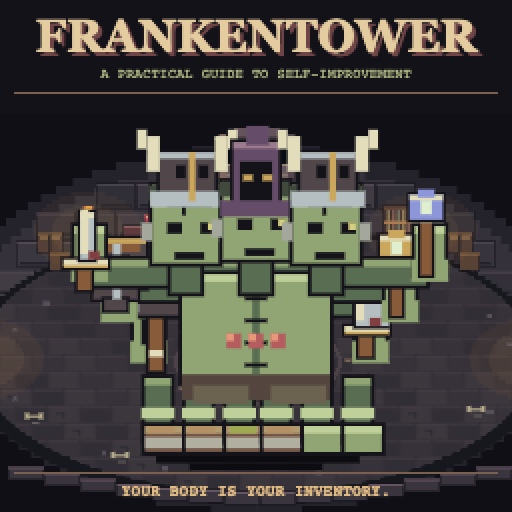
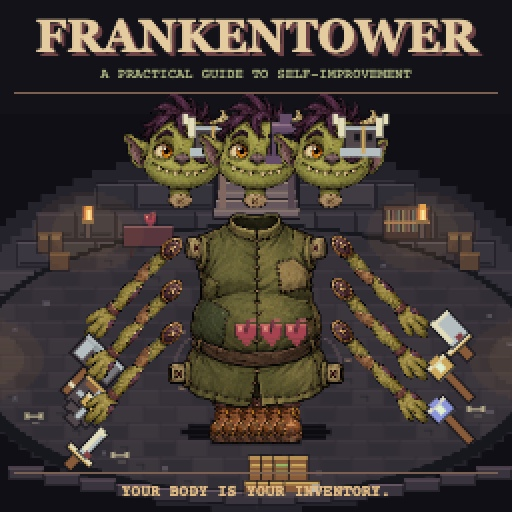
Prototype illustrated front-facing creature parts

diff --git a/src/styles.css b/src/styles.css
@@ -1,5 +1,5 @@
 :root{font-family:'Courier New',monospace;color:#dfd2b6;background:#100f14;font-size:13px;font-synthesis:none;--muted:#a59790;--cream:#efdfb9;--mint:#b6c891;--gold:#dfb978;--red:#d88078;--line:#54434a;--safe-top:0px;--safe-right:0px;--safe-bottom:0px;--safe-left:0px;color-scheme:dark}
-*{box-sizing:border-box}body{margin:0}button,a,input{-webkit-tap-highlight-color:transparent}button{font:inherit;color:inherit;cursor:pointer;border:2px solid #66504c;background:#332a2d;padding:9px 13px;box-shadow:inset 0 2px #8d6d5033,0 2px #08090c;text-align:center}button:hover:not(:disabled){color:#fff0c9;border-color:#b38d64;background:#49382f}button:active:not(:disabled){transform:translateY(1px)}button:disabled{cursor:default;opacity:.38}button:focus-visible,a:focus-visible,input:focus-visible,summary:focus-visible{outline:2px solid var(--gold);outline-offset:4px}a{color:inherit;text-decoration:none}p{line-height:1.65;margin:0 0 14px}h1,h2,h3{font-family:Georgia,'Times New Roman',serif;color:var(--cream);font-weight:600;margin:0}h1{font-size:31px}h2{font-size:26px}h3{font-size:18px}small{font-size:10px}canvas{image-rendering:pixelated}.pixel-icon{display:inline-block;vertical-align:middle;flex-shrink:0}.creature{width:190px;height:auto;object-fit:contain}.eyebrow{font:10px/1.5 'Courier New',monospace;letter-spacing:1.7px;color:var(--muted)}.mint{color:var(--mint)}.blood{color:var(--red)}.gold-text{color:var(--gold)}.quiet{background:transparent;border:0;box-shadow:none;padding:5px;color:#b6a393}.quiet:hover:not(:disabled){background:transparent;color:var(--cream)}.icon-button{width:31px;height:31px;padding:0;font:20px Georgia,serif;background:#211e24;border-color:#4d3f46;box-shadow:none}.primary{display:flex;align-items:center;justify-content:center;gap:12px;background:#674b35;border-color:#ba905d;color:#f6e1b3;font-weight:bold;padding:13px 21px;box-shadow:inset 0 2px #d4ad6d55,0 3px #0a0a0d;white-space:nowrap}.primary:hover:not(:disabled){background:#896342;border-color:#e9c285}.primary.full{width:100%}.subdued{background:#34372e;border-color:#777859}.overload{color:#e9a875}.full{width:100%}
+*{box-sizing:border-box}body{margin:0}button,a,input{-webkit-tap-highlight-color:transparent}button{font:inherit;color:inherit;cursor:pointer;border:2px solid #66504c;background:#332a2d;padding:9px 13px;box-shadow:inset 0 2px #8d6d5033,0 2px #08090c;text-align:center}button:hover:not(:disabled){color:#fff0c9;border-color:#b38d64;background:#49382f}button:active:not(:disabled){transform:translateY(1px)}button:disabled{cursor:default;opacity:.38}button:focus-visible,a:focus-visible,input:focus-visible,summary:focus-visible{outline:2px solid var(--gold);outline-offset:4px}a{color:inherit;text-decoration:none}p{line-height:1.65;margin:0 0 14px}h1,h2,h3{font-family:Georgia,'Times New Roman',serif;color:var(--cream);font-weight:600;margin:0}h1{font-size:31px}h2{font-size:26px}h3{font-size:18px}small{font-size:10px}canvas{image-rendering:pixelated}.pixel-icon{display:inline-block;vertical-align:middle;flex-shrink:0}.creature{width:190px;height:auto;object-fit:contain;image-rendering:auto}.arena-scene canvas,.dressing-room{image-rendering:auto}.eyebrow{font:10px/1.5 'Courier New',monospace;letter-spacing:1.7px;color:var(--muted)}.mint{color:var(--mint)}.blood{color:var(--red)}.gold-text{color:var(--gold)}.quiet{background:transparent;border:0;box-shadow:none;padding:5px;color:#b6a393}.quiet:hover:not(:disabled){background:transparent;color:var(--cream)}.icon-button{width:31px;height:31px;padding:0;font:20px Georgia,serif;background:#211e24;border-color:#4d3f46;box-shadow:none}.primary{display:flex;align-items:center;justify-content:center;gap:12px;background:#674b35;border-color:#ba905d;color:#f6e1b3;font-weight:bold;padding:13px 21px;box-shadow:inset 0 2px #d4ad6d55,0 3px #0a0a0d;white-space:nowrap}.primary:hover:not(:disabled){background:#896342;border-color:#e9c285}.primary.full{width:100%}.subdued{background:#34372e;border-color:#777859}.overload{color:#e9a875}.full{width:100%}
 .app-shell{max-width:1240px;margin:auto;padding:calc(14px + var(--safe-top)) calc(24px + var(--safe-right)) calc(14px + var(--safe-bottom)) calc(24px + var(--safe-left));min-height:100dvh}.main-header{min-height:55px;display:flex;align-items:center;gap:24px;padding-bottom:14px;border-bottom:2px solid #45343d;position:relative;z-index:2}.wordmark{font:900 25px/1 Georgia,serif;letter-spacing:1px;color:#d5bca3;text-shadow:2px 2px #633e43,3px 3px #06070c;white-space:nowrap}.wordmark span{color:#b6c18a}.journey{display:flex;align-items:center;gap:8px;font-size:12px;letter-spacing:1px;margin:auto}.journey>span{font-size:10px;color:#83716f}.header-tools{display:flex;align-items:center;gap:8px;position:relative;padding-bottom:5px}.gold{display:flex;align-items:center;gap:5px;font-weight:bold;font-size:17px;color:var(--gold);margin-right:10px}.save-status{position:absolute;right:0;bottom:-12px;font-size:8px;color:#877e79;white-space:nowrap;max-width:220px}.workshop-world{display:grid;grid-template-columns:1fr 1fr;gap:34px;padding-top:26px;align-items:start}.patient-heading{display:flex;justify-content:space-between;align-items:center;padding:0 8px 14px}.patient-heading .eyebrow{font-size:9px}.patient-heading h1{margin:3px 0}.patient-species{font-size:11px;color:#a0a17e}.anatomy-scene{position:relative;max-width:560px;margin:auto}.dressing-room{display:block;width:100%;height:auto}.slot-groups{position:absolute;inset:0;pointer-events:none}.slot-group{position:absolute;pointer-events:auto;text-align:center;max-width:118px}.slot-heading{font-size:9px;letter-spacing:1px;text-transform:uppercase;color:#dfceae;text-shadow:1px 2px #100e14;margin-bottom:6px;display:flex;gap:6px;justify-content:center}.slot-heading small{font-size:9px;color:#b7bd91}.slot-grid{display:flex;flex-wrap:wrap;gap:5px;justify-content:center}.equipment-slot{position:relative;width:44px;height:45px;padding:3px;background:#1f1b22;border:2px solid #51444c;box-shadow:0 2px #100d15}.equipment-slot.filled{background:#332d30;border-color:#887159}.equipment-slot>span{display:none}.equipment-slot>small{position:absolute;right:0;bottom:0;background:#1d1a20;font-size:9px;color:#dac089;padding:0 2px}.equipment-slot:not(.filled)>.pixel-icon{opacity:.3}.equipment-slot.inactive{border-color:#9c5354}.variant-dot{position:absolute;right:-3px;top:-3px;width:6px;height:6px;background:#a7b3bd}.socket-head{top:4%;left:50%;transform:translateX(-50%);max-width:200px}.socket-hand{left:3%;top:40%}.socket-chest{right:3%;top:35%}.socket-heart{right:3%;top:62%}.socket-foot{bottom:4%;left:50%;transform:translateX(-50%);max-width:280px}.patient-vitals{display:flex;justify-content:center;gap:19px;flex-wrap:wrap;padding:15px 4px 5px;font-size:10px;color:#aaa08e}.patient-vitals>span{display:flex;align-items:center;gap:5px}.patient-vitals b{font-size:12px;color:#e1d4b5}.patient-vitals .overload b{color:#e1a271}.socket-hint{text-align:center;font-size:10px;color:#918078;margin:9px 0 0}
 .supply-tabs{display:flex;gap:24px;align-items:center;margin-bottom:22px;border-bottom:2px solid #48383d}.supply-tabs button{border:0;box-shadow:none;background:transparent;padding:0 0 13px;color:#9e8982;font-size:12px;position:relative}.supply-tabs button.active{color:#e5c18c;border-bottom:2px solid #bf955d;margin-bottom:-2px}.supply-tabs i{display:inline-block;width:5px;height:5px;background:#d6c075;margin-left:4px}.shop-title{display:flex;align-items:center;justify-content:space-between;margin-bottom:2px}.shop-title h2{margin-top:4px;font-size:27px}.shop-title .eyebrow{font-size:9px}.shop-tier{color:#d6b171;letter-spacing:3px}.shop-grid{display:grid;grid-template-columns:repeat(3,minmax(0,1fr));column-gap:0;row-gap:20px;margin-top:16px}.shop-card{min-width:0;position:relative;text-align:center;padding:0 8px 15px;border-bottom:10px solid #574033;box-shadow:0 4px #211b21,inset 0 -2px #a47d4e;background:transparent}.shop-card:after{content:'';position:absolute;left:0;right:0;bottom:-10px;height:2px;background:#a18055}.card-info{display:block;width:100%;padding:0 0 6px;border:0;box-shadow:none;background:none;text-align:center}.card-info:hover:not(:disabled){background:none;border:0}.item-art{height:95px;display:flex;align-items:center;justify-content:center;position:relative}.item-art:after{content:'';position:absolute;bottom:7px;left:25%;right:25%;height:5px;background:#080a0e}.item-art .pixel-icon{position:relative;z-index:1;transition:transform .15s}.card-info:hover .pixel-icon{transform:translateY(-4px)}.card-info h3{font-size:15px;line-height:1.25;min-height:38px;padding:0 3px;color:#e1c9a2}.card-info p{font-size:10px;line-height:1.45;color:#ab9a8e;min-height:43px;margin:6px 0 3px;display:-webkit-box;-webkit-line-clamp:3;-webkit-box-orient:vertical;overflow:hidden}.buy-button{font-size:13px;padding:6px 14px;min-width:69px;background:#382d26;border-color:#785f43;color:#e2bc7f}.buy-button span{font-size:10px;color:#dcb45c}.rarity-3 .item-art{filter:drop-shadow(0 0 9px #8282ac22)}.rarity-4 .item-art,.rarity-5 .item-art{filter:drop-shadow(0 0 9px #d0a05433)}.sold-card{border-bottom:10px solid #574033;box-shadow:0 4px #211b21;display:flex;flex-direction:column;align-items:center;justify-content:center;color:#70605a;min-height:219px}.sold-card>span{font:42px Georgia}.sold-card small{letter-spacing:2px}.shop-actions{display:flex;gap:12px;justify-content:space-between;margin:24px 0}.shop-actions button{font-size:11px;background:transparent;border-color:#59443f;padding:9px 11px}.shop-actions span{color:var(--gold);margin-left:8px}.tray{border-top:2px solid #46363d;padding-top:15px;margin-top:20px}.tray-heading{display:flex;align-items:center;justify-content:space-between}.tray-heading .quiet{font-size:10px}.tray>p{margin:15px 0;color:#81736f;font-size:11px}.tray-items{display:flex;flex-wrap:wrap;gap:8px;margin-top:14px}.item-tile{display:flex;gap:8px;align-items:center;position:relative;padding:8px;font-size:11px;max-width:155px;background:#282329}.item-tile>span{font-size:10px;text-align:left}.level{font-size:9px;color:var(--gold)}.merge-dot{position:absolute;right:0;top:0;color:#b8d48a}
 .procedure-content>.eyebrow{color:#97af9f}.procedure-content>h2{margin:5px 0 17px}.doctor-quote{margin:0 0 20px;font:italic 17px/1.65 Georgia,serif;color:#bbbfaa;border-left:3px solid #758975;padding-left:17px}.doctor-quote cite{display:block;font:10px 'Courier New',monospace;letter-spacing:1px;color:#849986;margin-top:8px}.procedure-intro{font-size:11px;color:#a4a798}.procedure-card{padding:17px 0;border-top:1px solid #465047}.procedure-card-heading{display:flex;align-items:center;gap:13px}.procedure-card h3{font-size:20px;color:#c9d1b5}.procedure-card>p{font-size:12px;margin:7px 0;color:#afb8a3}.procedure-card blockquote{font:italic 13px Georgia,serif;color:#8b9b8c;margin:0 0 11px}.procedure-card button{border-color:#718068;background:#303b32;font-size:11px}.procedure-card button span{margin-left:12px;color:#d0c68e}.procedure-reason{display:block;font-size:10px;color:#958c80;margin-top:8px}

diff --git a/src/art/pixel.ts b/src/art/pixel.ts
@@ -1,6 +1,10 @@
 import { count } from '../game/anatomy';
 import { ITEM_MAP } from '../game/content';
 import type { Build } from '../game/types';
+import torsoUrl from './assets/torso.webp';
+import headUrl from './assets/head.webp';
+import armUrl from './assets/arm.webp';
+import legUrl from './assets/leg.webp';
 
 export type Pen = CanvasRenderingContext2D;
 const ink = '#15131a';
@@ -50,8 +54,73 @@ export function pixelItem(c: Pen, name: string, x = 0, y = 0, size = 32, variant
   }
   c.restore();
 }
-export interface Pose { time?: number; walk?: number; moving?: boolean; facing?: number; windup?: number; windupItem?: string; activeItems?: string[]; attacking?: boolean; hurt?: boolean; dead?: number; enemy?: boolean }
+export interface Pose { time?: number; walk?: number; moving?: boolean; facing?: number; windup?: number; windupItem?: string; activeItems?: string[]; attacking?: boolean; swing?: number; hurt?: boolean; dead?: number; enemy?: boolean }
+const puppetImages = Object.fromEntries(Object.entries({ torso: torsoUrl, head: headUrl, arm: armUrl, leg: legUrl }).map(([name, src]) => {
+  const img = new Image(); img.src = src; return [name, img];
+})) as Record<'torso'|'head'|'arm'|'leg', HTMLImageElement>;
+export const puppetReady = Promise.all(Object.values(puppetImages).map(img => img.decode().catch(() => undefined)));
+export function puppetHeight(build:Build) {
+  const hands=count(build,'hand'),heads=count(build,'head'),feet=count(build,'foot'),growth=Math.max(0,build.parts.length-7);
+  const torsoH=65+Math.min(24,heads*3.5+hands*1.3+feet*1.25+growth*.55);
+  const headH=Math.min(53,42+heads*1.5), extraHeadRows=Math.max(0,Math.floor((heads-1)/3))*12;
+  return 49+torsoH*.5+19+headH*.5+extraHeadRows+20;
+}
+function puppetPart(c:Pen, img:HTMLImageElement, x:number, y:number, w:number, h:number) {
+  c.drawImage(img, x-w/2, y-h/2, w, h);
+}
+function puppetMonster(c:Pen, build:Build, x:number, y:number, scale:number, pose:Pose) {
+  if (!Object.values(puppetImages).every(img=>img.complete&&img.naturalWidth)) return false;
+  const hands=build.parts.filter(p=>p.slot==='hand'), heads=build.parts.filter(p=>p.slot==='head'), feet=build.parts.filter(p=>p.slot==='foot');
+  const hearts=count(build,'heart'), chest=build.parts.find(p=>p.slot==='chest'&&p.item);
+  c.save(); c.imageSmoothingEnabled=true; c.translate(Math.round(x),Math.round(y)); c.scale(scale,scale);
+  if(pose.dead!==undefined){const p=Math.min(1,pose.dead/.38);c.globalAlpha=.65;c.translate(0,4);c.scale(1,Math.max(.24,1-p));}
+  const bob=pose.moving?Math.sin((pose.walk??0)*.2)*2:Math.sin((pose.time??0)*2)*.6;
+  oval(c,0,0,24+Math.min(12,feet.length),5,'#0c0c11'); c.translate(pose.hurt?-2:0,-bob);
+  const growth=Math.max(0,build.parts.length-7);
+  const torsoW=56+Math.min(34,hands.length*2.5+feet.length*1.25+growth*.55);
+  const torsoH=65+Math.min(24,heads.length*3.5+hands.length*1.3+feet.length*1.25+growth*.55);
+  const torsoY=-49;
+  // Legs fan out below the torso. Each ankle and boot remains visible in the frontal pose.
+  feet.forEach((p,i)=>{
+    const f=(i-(feet.length-1)/2)/Math.max(1,feet.length-1);
+    const stride=pose.moving?Math.sin((pose.walk??0)*.22+i*Math.PI)*3:0;
+    const lx=f*Math.min(34,8+feet.length*3)+stride;
+    puppetPart(c,puppetImages.leg,lx,-16+stride,25,42);
+    if(p.item)pixelItem(c,ITEM_MAP[p.item.defId].icon,lx+5,8+stride,19,p.item.defId);
+  });
+  // Extra arms grow in rows down the torso, with all of them kept in view.
+  const drawArm=(i:number)=>{
+    const p=hands[i]; if(!p)return;
+    const side=i%2===0?-1:1, tier=Math.floor(i/2), rows=Math.max(1,Math.ceil(hands.length/2));
+    const ay=torsoY-torsoH*.31+Math.min(torsoH*.7,tier*Math.min(17,torsoH*.58/Math.max(1,rows-1)));
+    const ax=side*(torsoW*.37);
+    const neutral=-side*.76;
+    const active=!!p.item&&(pose.activeItems?.includes(p.item.uid)||pose.attacking&&!pose.activeItems);
+    let angle=neutral;
+    if(p.item&&pose.windupItem===p.item.uid)angle+=-side*Math.min(1,pose.windup??0)*.9;
+    if(active){const t=Math.max(0,Math.min(1,pose.swing??.5));const eased=t*t*(3-2*t);angle=neutral+(-((pose.facing??1)*1.85)-neutral)*eased;}
+    c.save(); c.translate(ax,ay); c.rotate(angle);
+    puppetPart(c,puppetImages.arm,0,26,24,58);
+    if(p.item){const def=ITEM_MAP[p.item.defId];const size=def.id==='enormous'?34:def.icon==='club'?27:23;c.save();c.translate(-4,49);pixelItem(c,def.icon,0,0,size,p.item.defId);c.restore();}
+    c.restore();
+  };
+  puppetPart(c,puppetImages.torso,0,torsoY,torsoW,torsoH);
+  if(chest?.item)pixelItem(c,ITEM_MAP[chest.item.defId].icon,0,torsoY-5,27,chest.item.defId);
+  for(let i=0;i<Math.min(hearts,5);i++)pixelItem(c,'heart',-10+(i%3)*10,torsoY+3+Math.floor(i/3)*10,12);
+  if(!heads.length){pixelItem(c,'head',-5,-torsoH-32,17);}
+  heads.forEach((p,i)=>{
+    const spread=(i-(heads.length-1)/2)*Math.min(31,60/Math.max(1,heads.length-1));
+    const hw=Math.min(53,42+heads.length*1.5), hh=hw;
+    const hy=torsoY-torsoH*.5-19-(Math.floor(i/3)*12);
+    puppetPart(c,puppetImages.head,spread,hy,hw,hh);
+    if(p.item)pixelItem(c,ITEM_MAP[p.item.defId].icon,spread,hy-hh*.34,23,p.item.defId);
+  });
+  hands.forEach((_,i)=>drawArm(i));
+  if(pose.hurt){c.globalAlpha=.12;rect(c,-torsoW/2,-torsoH-70,torsoW,torsoH+90,'#fff0c4');}
+  c.restore(); return true;
+}
 export function monster(c: Pen, build: Build, x: number, y: number, scale=1, pose: Pose={}) {
+  if(puppetMonster(c,build,x,y,scale,pose))return;
   const hands=build.parts.filter(p=>p.slot==='hand'),heads=build.parts.filter(p=>p.slot==='head'),feet=build.parts.filter(p=>p.slot==='foot');
   const undead=/Skeleton|Bone|Grave|Lich/i.test(build.name), rat=/Rat/i.test(build.name), ogre=/Ogre|Brute/i.test(build.name), ghost=/Wraith/i.test(build.name);
   const flesh=pose.enemy?(undead?'#c3b994':ghost?'#9e9fbb':ogre?'#b28469':'#a79772'):'#91a574', lit=pose.enemy?(undead?'#ece0b9':'#c1ad84'):'#bfd09a', shade=pose.enemy?'#72634f':'#596d52';

diff --git a/src/ui/Arena.tsx b/src/ui/Arena.tsx
@@ -1,6 +1,6 @@
 import { useEffect, useRef } from 'react';
 import { ARENA, type Combat, type LogEntry } from '../game/combat';
-import { monster, oval, rect, pixelItem, room, roomLights, type Pen } from '../art/pixel';
+import { monster, oval, rect, pixelItem, puppetHeight, room, roomLights, type Pen } from '../art/pixel';
 import type { Build } from '../game/types';
 
 function text(c:Pen,value:string,x:number,y:number,colour:string,size=10){c.font=`bold ${size}px monospace`;c.textAlign='center';c.fillStyle='#121018';c.fillText(value,Math.round(x)+1,Math.round(y)+1);c.fillStyle=colour;c.fillText(value,Math.round(x),Math.round(y));}
@@ -57,10 +57,10 @@ export function Arena({combat,floor,paused,onInspect}:{combat:Combat;floor:numbe
         const dead=a.diedAt===undefined?undefined:time-a.diedAt;
         if(a.side==='player'&&a.hp>0){oval(c!,a.x,a.y+1,a.radius+7,7,'#748867');oval(c!,a.x,a.y,a.radius+5,5,'#222a25');}
         const hurt=!reduced&&time-a.lastHit<.12;
-        monster(c!,a.build,a.x,a.y,scale,{time:reduced?0:time,walk:a.walked,moving:!reduced&&!stopped&&a.hp>0&&Math.hypot(a.vx,a.vy)>5,facing:a.facing,enemy:a.side==='enemy',windup:a.windup,windupItem:a.windupItem,activeItems:a.items.filter(n=>time-n.lastActivated<.17).map(n=>n.item.uid),attacking:time-a.lastAction<.12,hurt,dead});
+        monster(c!,a.build,a.x,a.y,scale,{time:reduced?0:time,walk:a.walked,moving:!reduced&&!stopped&&a.hp>0&&Math.hypot(a.vx,a.vy)>5,facing:a.facing,enemy:a.side==='enemy',windup:a.windup,windupItem:a.windupItem,activeItems:a.items.filter(n=>time-n.lastActivated<.17).map(n=>n.item.uid),attacking:time-a.lastAction<.12,swing:Math.max(0,Math.min(1,1-(time-a.lastAction)/.17)),hurt,dead});
         if(a.hp<=0)continue;
         if(a.shield>0){for(let i=0;i<20;i++){const t=i*Math.PI/10;rect(c!,a.x+Math.cos(t)*29,a.y-36+Math.sin(t)*36,3,3,'#8dadba');}}
-        const barY=a.y-(a.side==='player'?94:82),bw=a.side==='player'?52:37;
+        const barY=a.y-(a.side==='player'?132:112),bw=a.side==='player'?52:37;
         rect(c!,a.x-bw/2-1,barY-1,bw+2,5,'#14141a');rect(c!,a.x-bw/2,barY,bw*a.hp/a.stats.maxHp,3,a.side==='player'?'#9ea86f':'#b66963');
         if(a.poison>0)text(c!,`● ${Math.ceil(a.poison)}`,a.x-15,barY-5,'#acba69',8);
         if(a.bleed>0)text(c!,`♦ ${Math.ceil(a.bleed)}`,a.x+18,barY-5,'#dc8675',8);
@@ -81,7 +81,7 @@ export function DressingRoom({build,floor,surgery=false}:{build:Build;floor:numb
     for(let i=0;i<6;i++){rect(b,0,263+i*14,320,13,i%2?'#3d3339':'#342d34');for(let j=0;j<7;j++)rect(b,j*55+(i%2)*25,263+i*14,1,14,'#1b1921');}
     oval(b,160,275,99,27,'#1c1b21');oval(b,160,270,92,23,surgery?'#52635b':'#4b3b42');oval(b,160,266,92,22,surgery?'#839080':'#6b5055');oval(b,160,264,83,17,surgery?'#657d70':'#4e3e48');
     if(surgery){rect(b,249,256,45,8,'#a1aba0');rect(b,253,264,4,33,'#555f60');pixelItem(b,'surgery',258,234,22);rect(b,21,177,28,59,'#36343f');for(let i=0;i<3;i++){rect(b,25+i*7,183,4,18,'#90a786');rect(b,25+i*7,204,4,2,'#c8d0b0');}}
-    const reduced=matchMedia('(prefers-reduced-motion: reduce)').matches;let frame=0;function draw(now:number){c!.clearRect(0,0,320,340);c!.drawImage(bg,0,0);torchAt(now);monster(c!,latest.current,160,257,1.7,{time:reduced?0:now/1000});frame=requestAnimationFrame(draw);}function torchAt(now:number){const t=reduced?0:now/1000;importTorch(c!,30,96,t);importTorch(c!,287,96,t);}
+    const reduced=matchMedia('(prefers-reduced-motion: reduce)').matches;let frame=0;function draw(now:number){c!.clearRect(0,0,320,340);c!.drawImage(bg,0,0);torchAt(now);monster(c!,latest.current,160,257,Math.min(1.7,250/puppetHeight(latest.current)),{time:reduced?0:now/1000});frame=requestAnimationFrame(draw);}function torchAt(now:number){const t=reduced?0:now/1000;importTorch(c!,30,96,t);importTorch(c!,287,96,t);}
     frame=requestAnimationFrame(draw);return()=>cancelAnimationFrame(frame);
   },[floor,surgery]);
   return <canvas ref={canvas} className="dressing-room" width={320} height={340} role="img" aria-label={`${build.name} in ${surgery?'the surgery':'the equipment room'}`}/>;

diff --git a/src/ui/Creature.tsx b/src/ui/Creature.tsx
@@ -1,9 +1,9 @@
 import { useEffect, useRef } from 'react';
 import { count } from '../game/anatomy';
 import type { Build } from '../game/types';
-import { monster } from '../art/pixel';
+import { monster, puppetHeight, puppetReady } from '../art/pixel';
 export function Creature({ build, enemy = false, active = false, hurt = false, compact = false }: { build: Build; enemy?: boolean; active?: boolean; hurt?: boolean; compact?: boolean }) {
   const ref=useRef<HTMLCanvasElement>(null);
-  useEffect(()=>{const c=ref.current?.getContext('2d');if(!c)return;c.clearRect(0,0,128,120);monster(c,build,64,111,1,{enemy,attacking:active,hurt});});
-  return <canvas ref={ref} width={128} height={120} role="img" aria-label={`${build.name}: ${count(build,'head')} heads, ${count(build,'hand')} hands, ${count(build,'foot')} feet, ${count(build,'heart')} hearts`} className={`creature ${compact?'compact':''}`}/>;
+  useEffect(()=>{let mounted=true;const draw=()=>{if(!mounted)return;const c=ref.current?.getContext('2d');if(!c)return;c.clearRect(0,0,144,160);monster(c,build,72,146,Math.min(1,150/puppetHeight(build)),{enemy,attacking:active,hurt});};draw();puppetReady.then(draw);return()=>{mounted=false;};});
+  return <canvas ref={ref} width={144} height={160} role="img" aria-label={`${build.name}: ${count(build,'head')} heads, ${count(build,'hand')} hands, ${count(build,'foot')} feet, ${count(build,'heart')} hearts`} className={`creature ${compact?'compact':''}`}/>;
 }

diff --git a/README.md b/README.md
@@ -36,7 +36,7 @@ Offline mode uses a separate local save. The browser-storage adapter is removed 
 
 - Deterministic spatial combat shared by players, authored enemies, and saved guardians: positions, nearest-target acquisition, pursuit, orbiting, soft body separation, and a circular arena boundary.
 - Melee strikes require reach; ready weapons wait while approaching. Ranged and magical attacks have longer reach, and ranged-only fighters retreat from nearby threats. Leg count determines physical movement speed.
-- Pixel-art dungeon arena, modular monsters, visible equipment, gait animation, heavy-weapon anticipation, recoil, death poses, attack arcs/projectiles, damage numbers, Shield breaks, critical feedback, and brief hit-stop on large impacts. Reduced-motion preferences suppress shake and cosmetic gait motion.
+- Pixel-art dungeon arena with an illustrated paper-puppet creature prototype: a growing stitched torso, front-facing heads, visible limbs, and arms that swing across the body. Creatures also show equipped gear, gait, recoil, death poses, attack arcs/projectiles, damage numbers, Shield breaks, critical feedback, and brief hit-stop on large impacts. Reduced-motion preferences suppress shake and cosmetic gait motion.
 - 51 equipment definitions across five rarities, with timers, tags, generic selectors/effects, duplicate upgrades, and Level 3 signatures.
 - Mutable Hand, Head, Foot, Chest, and Heart sockets; anatomy-derived HP, Mana, circulation capacity and load.
 - 14 surgical procedures, including arm/head/foot grafts, amputation, arm-to-head conversion, clockwork arms, Mana-fed necrotic hearts, serpent heads, and headless neural control.
@@ -48,7 +48,7 @@ Offline mode uses a separate local save. The browser-storage adapter is removed 
 - Creature-centred equipment room with anatomical sockets, a timber supply counter, a clinical surgery view, a compact combat HUD, responsive mobile camera, sound, safe areas, host pause/resume handling, and cloud saves.
 - Custom RUN analytics for purchases, upgrades, rerolls, procedures, equipment choices, fights, retirement, and run outcomes.
 
-The design's later addendum explicitly defers community publishing, Fame, public reactions, and a shared boss repository. Those are not simulated or presented as live features here. The newer visual direction supersedes the original movement deferral. Ordinary floors reuse a circular room; props are decorative and do not block movement or line of sight. Art is an intentionally chunky procedural pixel prototype, not final production art.
+The design's later addendum explicitly defers community publishing, Fame, public reactions, and a shared boss repository. Those are not simulated or presented as live features here. The newer visual direction supersedes the original movement deferral. Ordinary floors reuse a circular room; props are decorative and do not block movement or line of sight. The room and equipment icons retain their procedural pixel style; the creature cutouts are an early illustrated art experiment, not final production art.
 
 ## Architecture
 
@@ -60,9 +60,9 @@ The design's later addendum explicitly defers community publishing, Fame, public
 | `src/game/run.ts` | Seeded shops, economy, grafts, encounter budgets, checkpoints, and retirement |
 | `src/platform.ts` | RUN storage, analytics, safe areas, and lifecycle events |
 | `src/App.tsx` | Build/combat screens, inspection, records, and player controls |
-| `src/ui/Creature.tsx` | Pixel creature portraits |
+| `src/ui/Creature.tsx` | Responsive modular creature portraits |
 | `src/ui/Arena.tsx` | Arena rendering, effects, mobile framing, and dressing room |
-| `src/art/pixel.ts` | Shared pixel-art room, props, anatomy, and equipment drawing |
+| `src/art/pixel.ts` | Canvas room, props, anatomy, equipment, and paper-puppet assembly |
 
 `public/thumbnail.jpg` is the required 512×512 RUN thumbnail. `node scripts/render-thumbnail.mjs` renders it from the game's own pixel dungeon and creature. RUN text generation is explicitly disabled in `rundot/textGen.config.json`; this game makes no inference calls.
 

diff --git a/docs/release-notes.md b/docs/release-notes.md
@@ -1,11 +1,13 @@
-# FRANKENTOWER — private pixel-arena playtest
+# FRANKENTOWER — private creature-art playtest
 
-Watch your monster fight in a dark pixel-art dungeon. Creatures pursue targets, circle each other, close to melee range, and recoil from attacks. Legs now determine physical movement speed; heavy weapons wind up before striking.
+Watch your stitched creature fight in a dark pixel-art dungeon. The first illustrated paper-puppet parts add a front-facing head, a growing cloth torso, articulated arms, and booted legs. Arms rest out to the sides and sweep across the body when equipped attacks trigger; large builds scale to fit the dressing room and inspection views.
+
+Creatures pursue targets, circle each other, close to melee range, and recoil from attacks. Legs determine physical movement speed; heavy weapons wind up before striking.
 
 The arena takes centre stage during combat. Damage, critical hits, Poison, Bleed, Shield breaks, projectiles, and deaths appear in the room. Equipment and full statistics are available through inspection.
 
 Between floors, equip anatomical sockets around your creature, buy loose equipment from the supply shelves, and visit Dr. Sutcher for reconstruction. The campaign, 51 items, 14 procedures, personal Legacy guardians, and cloud saves remain available.
 
-This is a first visual pass with procedural placeholder pixel art. Room props are decorative. Further human playtesting will guide movement, economy, and item balance.
+This is an art-direction prototype: the room and equipment icons still use procedural pixel art, while the shared creature parts are an initial illustrated set. Room props are decorative. Further human playtesting will guide movement, economy, item balance, and the creature-art direction.
 
 Created by Daniel Andersen for the Monster Mash jam. This version remains private/unlisted.
